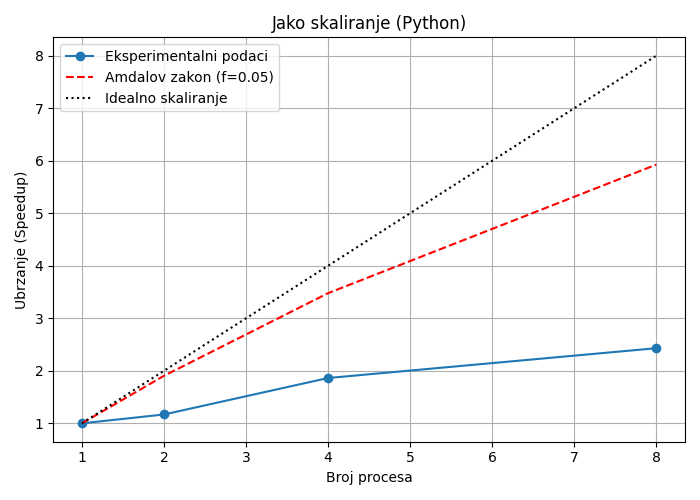
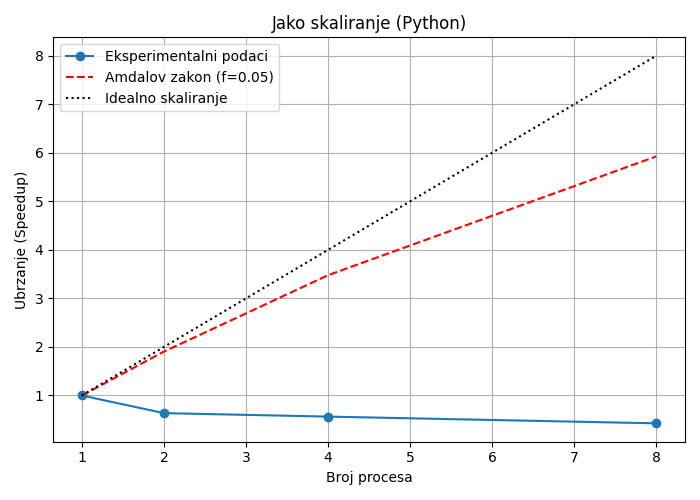
tests fix

diff --git a/python/src/tests.py b/python/src/tests.py
@@ -6,29 +6,37 @@ import statistics
 import csv
 import os
 
-REPEATS = 30
-PROCESSES = [1, 2, 4, 8]  # broj procesa za eksperiment
+# --- KONFIGURACIJA EKSPERIMENATA ---
+REPEATS = 3
+PROCESSES = [1, 2, 4, 8]
 DT = 0.001
-STEPS_BASE = 60000  # osnovna veličina posla za 1 proces
-
-# Procena sekvencijalnog dela (f_s)
-F_SEQ = 0.05  # 5% koda se ne može paralelizovati
-
+STEPS_BASE = 60000
+F_SEQ = 0.05  # procenat sekvencijalnog dela
 OUTDIR = "results"
+
 os.makedirs(OUTDIR, exist_ok=True)
 
 
+# --- POMOĆNE FUNKCIJE ---
 def run_command(cmd):
-    """Pokreće komandu i vraća vreme izvršavanja (u sekundama)."""
+    """Pokreće komandu i vraća CPU vreme izvršavanja (u sekundama)."""
     start = time.perf_counter()
     subprocess.run(cmd, stdout=subprocess.DEVNULL, stderr=subprocess.DEVNULL)
     return time.perf_counter() - start
 
 
+def amdahl_speedup(p, f_seq):
+    return 1.0 / (f_seq + (1.0 - f_seq) / p)
+
+
+def gustafson_speedup(p, f_seq):
+    return p - f_seq * (p - 1.0)
+
+
+# --- EKSPERIMENT JAKOG SKALIRANJA ---
 def strong_scaling():
-    """Eksperiment jakog skaliranja – isti posao, više procesa."""
+    print("\n--- JAKO SKALIRANJE (Python) ---")
     results = []
-    print("\n--- STRONG SCALING ---")
     for nproc in PROCESSES:
         times = []
         for _ in range(REPEATS):
@@ -41,17 +49,17 @@ def strong_scaling():
         mean_t = statistics.mean(times)
         std_t = statistics.stdev(times) if len(times) > 1 else 0.0
         results.append((nproc, mean_t, std_t))
-        print(f"{nproc} proc -> mean={mean_t:.4f}s std={std_t:.4f}s")
+        print(f"{nproc} procesa → mean={mean_t:.4f}s std={std_t:.4f}s")
     return results
 
 
+# --- EKSPERIMENT SLABOG SKALIRANJA ---
 def weak_scaling():
-    """Eksperiment slabog skaliranja – konstantan posao po procesu."""
+    print("\n--- SLABO SKALIRANJE (Python) ---")
     results = []
-    print("\n--- WEAK SCALING ---")
     for nproc in PROCESSES:
         times = []
-        steps = STEPS_BASE * nproc
+        steps = STEPS_BASE * nproc  # konstantan posao po procesu
         for _ in range(REPEATS):
             if nproc == 1:
                 cmd = ["python", "simulate.py", "--dt", str(DT), "--steps", str(steps)]
@@ -62,52 +70,57 @@ def weak_scaling():
         mean_t = statistics.mean(times)
         std_t = statistics.stdev(times) if len(times) > 1 else 0.0
         results.append((nproc, mean_t, std_t))
-        print(f"{nproc} proc -> mean={mean_t:.4f}s std={std_t:.4f}s")
+        print(f"{nproc} procesa → mean={mean_t:.4f}s std={std_t:.4f}s")
     return results
 
 
-def amdahl_speedup(p, f_seq):
-    return 1.0 / (f_seq + (1 - f_seq) / p)
-
-
-def gustafson_speedup(p, f_seq):
-    return p - f_seq * (p - 1)
-
-
+# --- ČUVANJE REZULTATA ---
 def save_results(filename, results, type_):
     path = os.path.join(OUTDIR, filename)
     with open(path, "w", newline="") as f:
         writer = csv.writer(f)
-        writer.writerow(["nproc", "mean_time", "std_dev", "speedup"])
+        if type_ == "strong":
+            writer.writerow(["nproc", "mean_time", "std_dev", "speedup", "amdahl", "ideal"])
+        else:
+            writer.writerow(["nproc", "mean_time", "std_dev", "scaled_speedup", "gustafson", "ideal"])
+
         base_time = results[0][1]
         for nproc, mean_t, std_t in results:
-            speedup = base_time / mean_t
-            writer.writerow([nproc, mean_t, std_t, speedup])
-    print(f"{type_} results saved to {path}")
+            if type_ == "strong":
+                speedup = base_time / mean_t
+                amdahl = amdahl_speedup(nproc, F_SEQ)
+                ideal = nproc
+                writer.writerow([nproc, mean_t, std_t, speedup, amdahl, ideal])
+            else:
+                scaled_speedup = nproc * base_time / mean_t
+                gustafson = gustafson_speedup(nproc, F_SEQ)
+                ideal = nproc
+                writer.writerow([nproc, mean_t, std_t, scaled_speedup, gustafson, ideal])
+    print(f"{type_.capitalize()} results saved to {path}")
 
 
+# --- CRTANJE GRAFIKONA ---
 def plot_scaling(results, f_seq, type_):
     nprocs = [r[0] for r in results]
     times = [r[1] for r in results]
     base_time = times[0]
-    exp_speedup = [base_time / t for t in times]
-
-    amdahl = [amdahl_speedup(p, f_seq) for p in nprocs]
-    gustafson = [gustafson_speedup(p, f_seq) for p in nprocs]
-    ideal = nprocs
 
     plt.figure(figsize=(7, 5))
+
     if type_ == "strong":
+        exp_speedup = [base_time / t for t in times]
+        amdahl = [amdahl_speedup(p, f_seq) for p in nprocs]
         plt.plot(nprocs, exp_speedup, "o-", label="Eksperimentalni podaci")
         plt.plot(nprocs, amdahl, "r--", label=f"Amdalov zakon (f={f_seq})")
-        plt.plot(nprocs, ideal, "k:", label="Idealno skaliranje")
         plt.title("Jako skaliranje (Python)")
     else:
+        exp_speedup = [p * base_time / t for p, t in zip(nprocs, times)]
+        gustafson = [gustafson_speedup(p, f_seq) for p in nprocs]
         plt.plot(nprocs, exp_speedup, "o-", label="Eksperimentalni podaci")
         plt.plot(nprocs, gustafson, "r--", label=f"Gustafsonov zakon (f={f_seq})")
-        plt.plot(nprocs, ideal, "k:", label="Idealno skaliranje")
         plt.title("Slabo skaliranje (Python)")
 
+    plt.plot(nprocs, nprocs, "k:", label="Idealno skaliranje")
     plt.xlabel("Broj procesa")
     plt.ylabel("Ubrzanje (Speedup)")
     plt.legend()
@@ -118,12 +131,13 @@ def plot_scaling(results, f_seq, type_):
     print(f"Saved plot {type_}_scaling.png")
 
 
+# --- GLAVNI PROGRAM ---
 if __name__ == "__main__":
     strong = strong_scaling()
     weak = weak_scaling()
 
-    save_results("strong_scaling.csv", strong, "Strong")
-    save_results("weak_scaling.csv", weak, "Weak")
+    save_results("strong_scaling.csv", strong, "strong")
+    save_results("weak_scaling.csv", weak, "weak")
 
     plot_scaling(strong, F_SEQ, "strong")
     plot_scaling(weak, F_SEQ, "weak")

diff --git a/python/src/parallel_sim.py b/python/src/parallel_sim.py
@@ -45,7 +45,7 @@ if __name__ == "__main__":
     print(f"Pokrecem sa {N} procesa...")
     initials = make_initial_conditions(base, N, delta=1e-3)
 
-    tasks = [(i, initials[i], params, dt, steps//N, outdir) for i in range(N)]
+    tasks = [(i, initials[i], params, dt, steps, outdir) for i in range(N)]
 
     start = time.perf_counter()
     with mp.Pool(processes=N) as pool:
